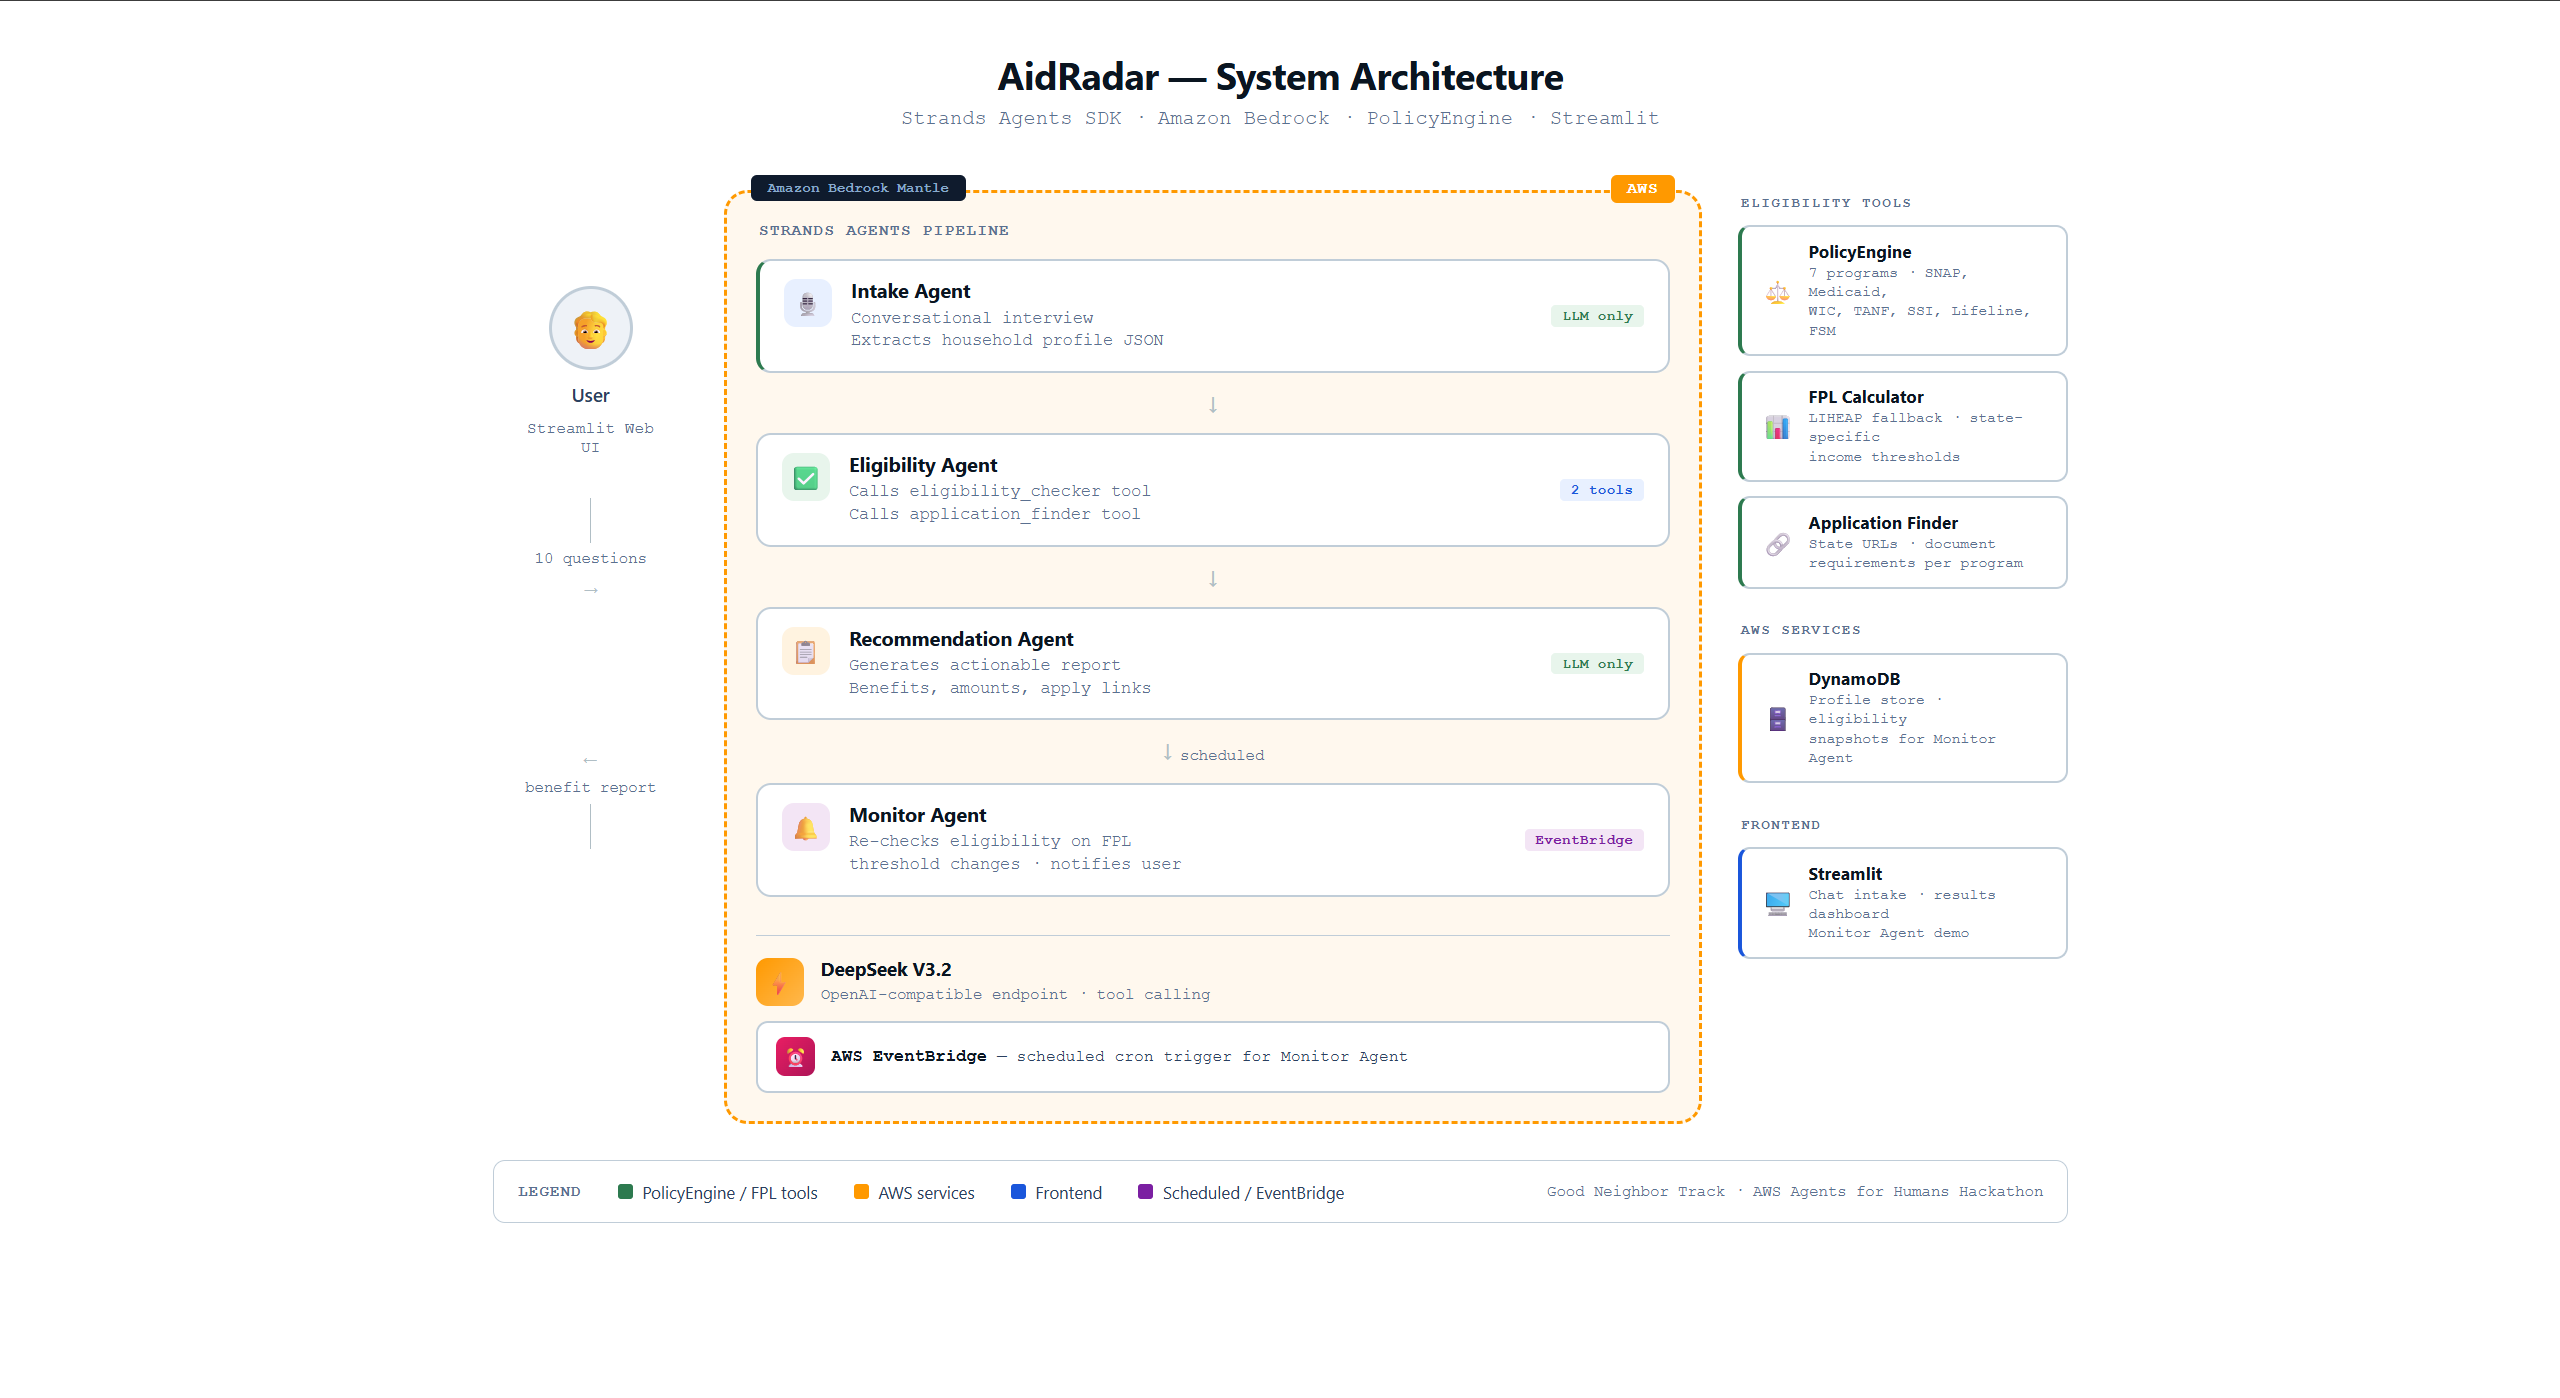
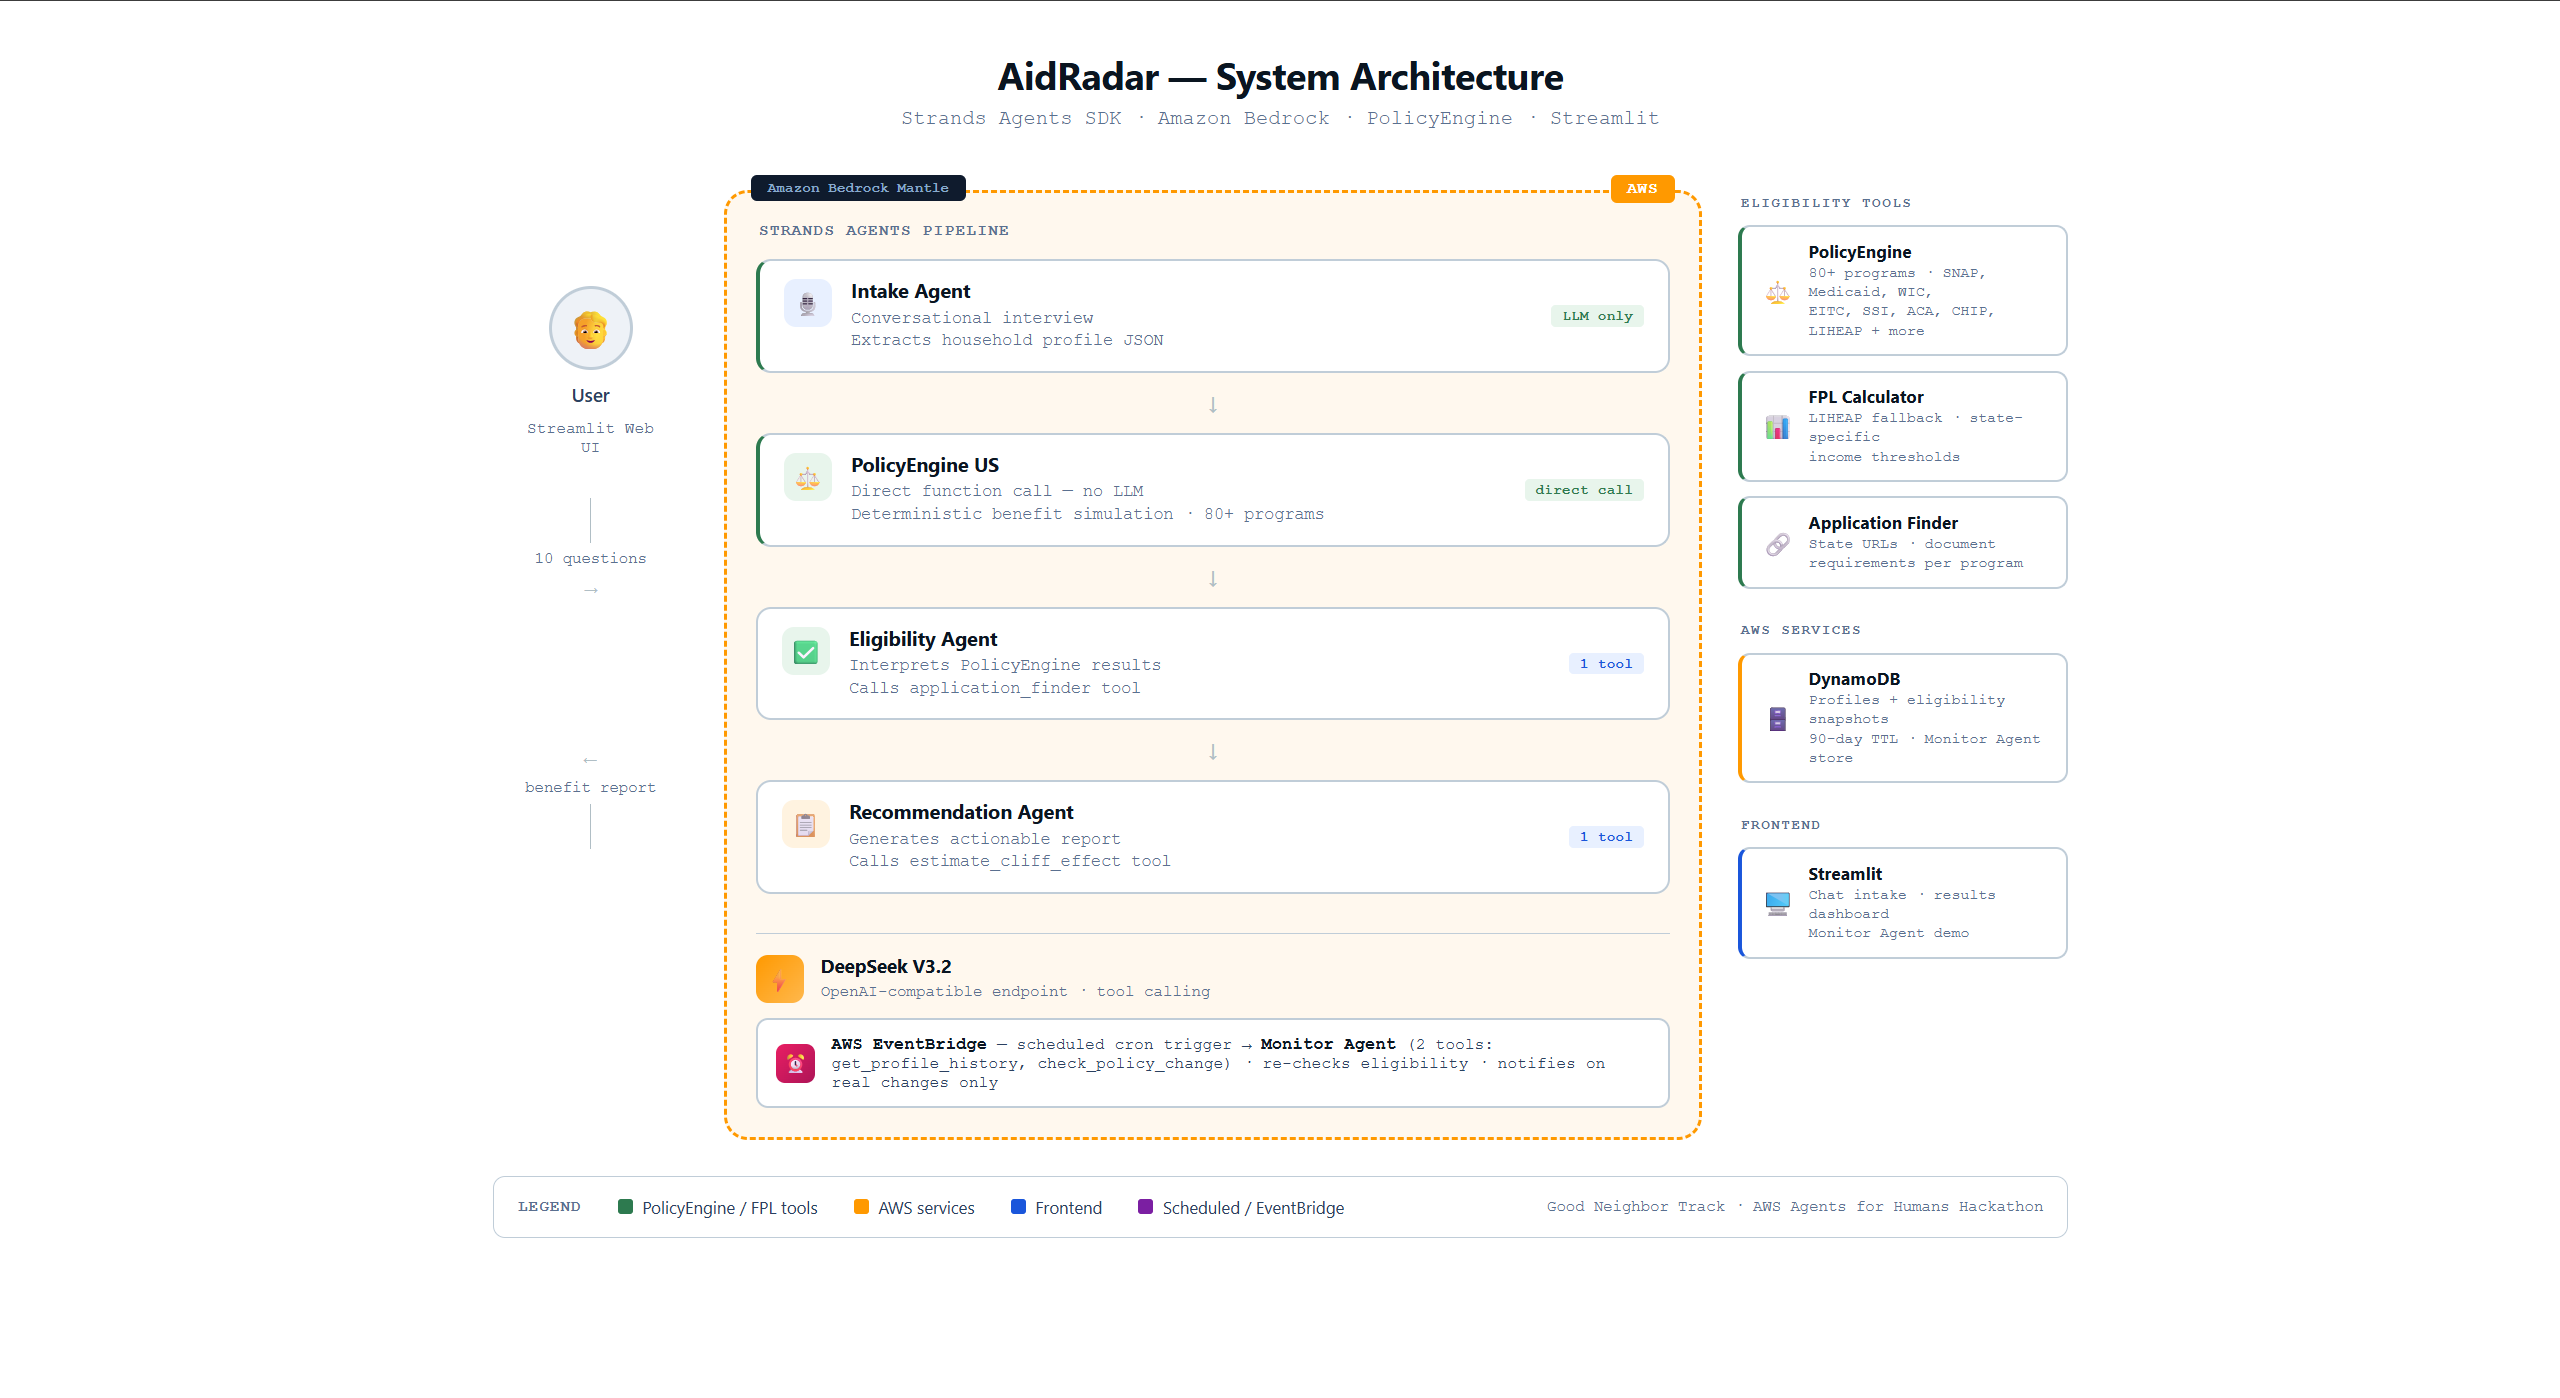
Remove unused ECR deployment files and update architecture diagram
Deletes Dockerfile, agentcore_handler.py, and deploy-agentcore.yml (ECR
approach superseded by AgentCore CLI CodeZip deployment). Updates
docs/architecture.html and architecture.png to accurately show PolicyEngine
as a direct call step, Monitor Agent as a separate scheduled path, and
corrects program count to 80+.

diff --git a/docs/architecture.html b/docs/architecture.html
@@ -414,6 +414,17 @@
 
         <div class="flow-arrow">↓</div>
 
+        <div class="agent-card" style="border-left:3px solid var(--green);">
+          <div class="agent-icon elig">⚖</div>
+          <div class="agent-info">
+            <div class="agent-name">PolicyEngine US</div>
+            <div class="agent-desc">Direct function call — no LLM<br>Deterministic benefit simulation · 80+ programs</div>
+          </div>
+          <div class="agent-tag tag-llm" style="background:var(--green-light);color:var(--green);">direct call</div>
+        </div>
+
+        <div class="flow-arrow">↓</div>
+
         <div class="agent-card">
           <div class="agent-icon elig">✅</div>
           <div class="agent-info">
@@ -434,17 +445,6 @@
           <div class="agent-tag tag-tool">1 tool</div>
         </div>
 
-        <div class="flow-arrow">↓ <span style="font-size:0.65rem;color:var(--text-muted);font-family:var(--font-mono);">scheduled</span></div>
-
-        <div class="agent-card">
-          <div class="agent-icon mon">🔔</div>
-          <div class="agent-info">
-            <div class="agent-name">Monitor Agent</div>
-            <div class="agent-desc">Re-checks eligibility on FPL<br>threshold changes · notifies user</div>
-          </div>
-          <div class="agent-tag tag-tool">2 tools</div>
-        </div>
-
         <div class="bedrock-row">
           <div class="bedrock-icon">⚡</div>
           <div class="bedrock-info">
@@ -456,7 +456,8 @@
 
       <div class="eventbridge-row">
         <div class="eb-icon">⏰</div>
-        <div class="eb-text"><strong>AWS EventBridge</strong> — scheduled cron trigger for Monitor Agent</div>
+        <div class="eb-text"><strong>AWS EventBridge</strong> — scheduled cron trigger →
+          <strong>Monitor Agent</strong> (2 tools: get_profile_history, check_policy_change) · re-checks eligibility · notifies on real changes only</div>
       </div>
     </div>
   </div>
@@ -469,7 +470,7 @@
       <div class="tool-emoji">⚖</div>
       <div class="tool-info">
         <div class="tool-name">PolicyEngine</div>
-        <div class="tool-desc">8 programs · SNAP, Medicaid, WIC,<br>TANF, SSI, Lifeline, LIHEAP, FSM</div>
+        <div class="tool-desc">80+ programs · SNAP, Medicaid, WIC,<br>EITC, SSI, ACA, CHIP, LIHEAP + more</div>
       </div>
     </div>
 
